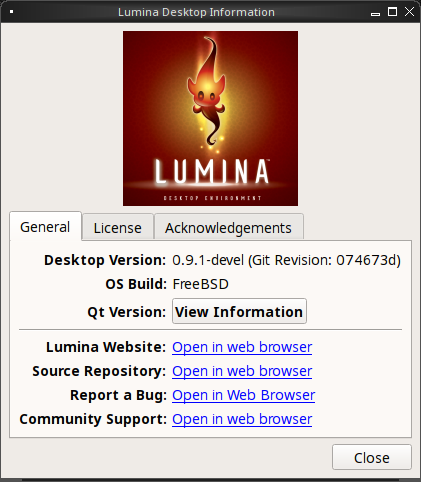
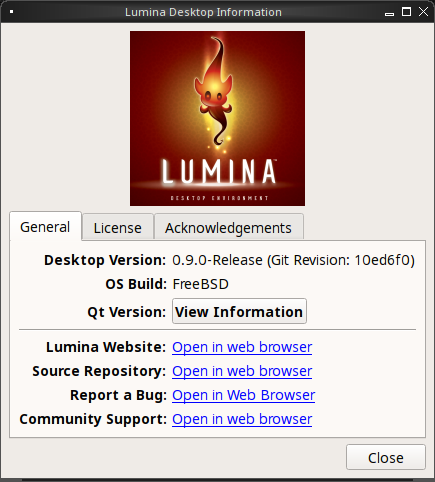
Error fixes - corrected changelog syntax - updated about1b.png to display correct version number - ran linkcheck - spellcheck with minor changes

diff --git a/lumina.rst b/lumina.rst
@@ -18,7 +18,7 @@ Lumina's features include:
   environment.
 
 * Uses a simple, `text-based configuration file for setting system-wide defaults <https://github.com/pcbsd/lumina/blob/master/src-qt5/core/lumina-desktop/defaults/luminaDesktop.conf>`_. This allows
-  Lumina distributors to easily pre-set the Lumina defaults and interface for their distribution.
+  Lumina distributors to easily preset the Lumina defaults and interface for their distribution.
 
 * Provides a plugin-based interface design. This allows the user to make the desktop as light or heavy as desired by choosing which plugins to have running on their desktop and panels.
   This plugin-based system is similar to Android or other modern operating systems.

diff --git a/changelog.rst b/changelog.rst
@@ -11,7 +11,7 @@ This section describes the major features and changes to each version of Lumina,
 Lumina 0.9.0
 ============
 
-* Created a "Common Applications" tab in the Lumina Configuration Utility/"Applications" section and moved common applications settings from the "File Defaults" tab.
+* Created a "Common Applications" tab in the :menuselection:`Lumina Configuration Utility --> "Applications"` section and moved common applications settings from the "File Defaults" tab.
 
 * Changed the default wallpapers for Lumina/PC-BSD and added some more 4K Lumina wallpapers.
 
